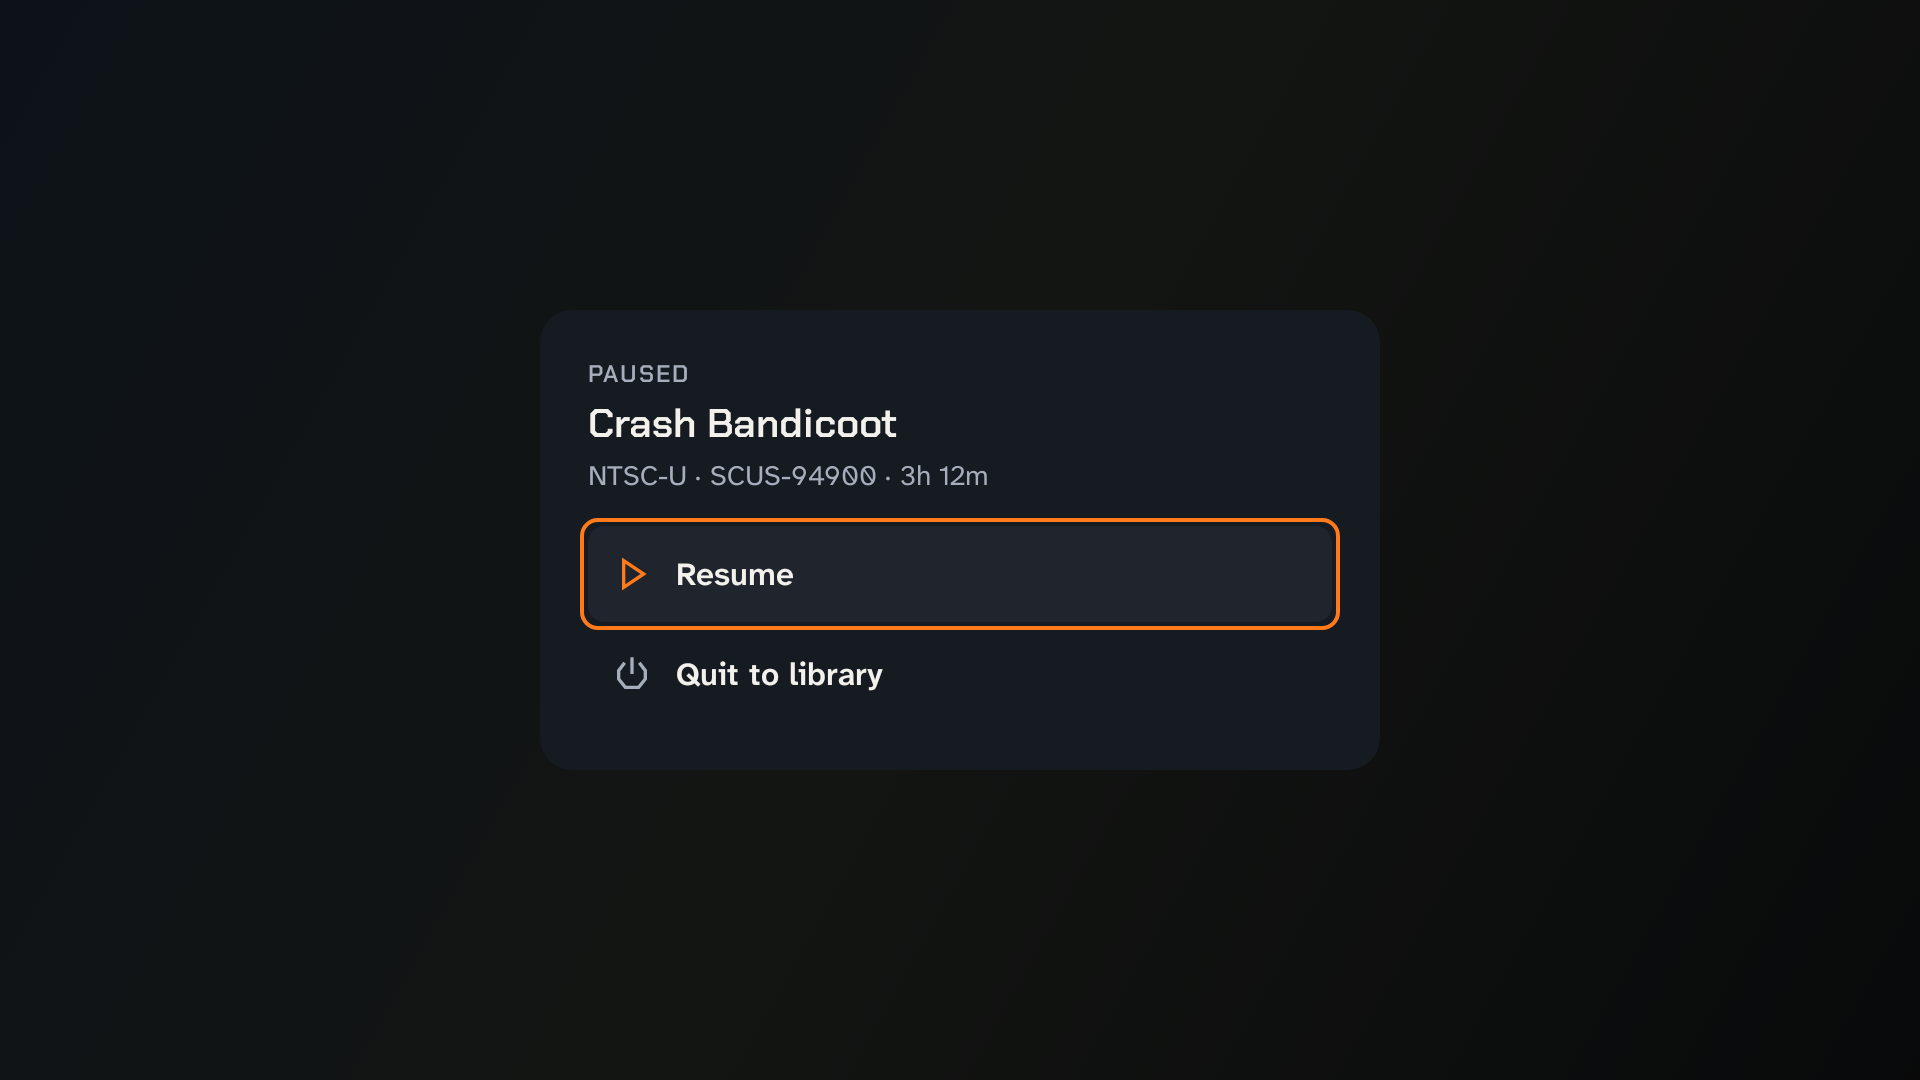
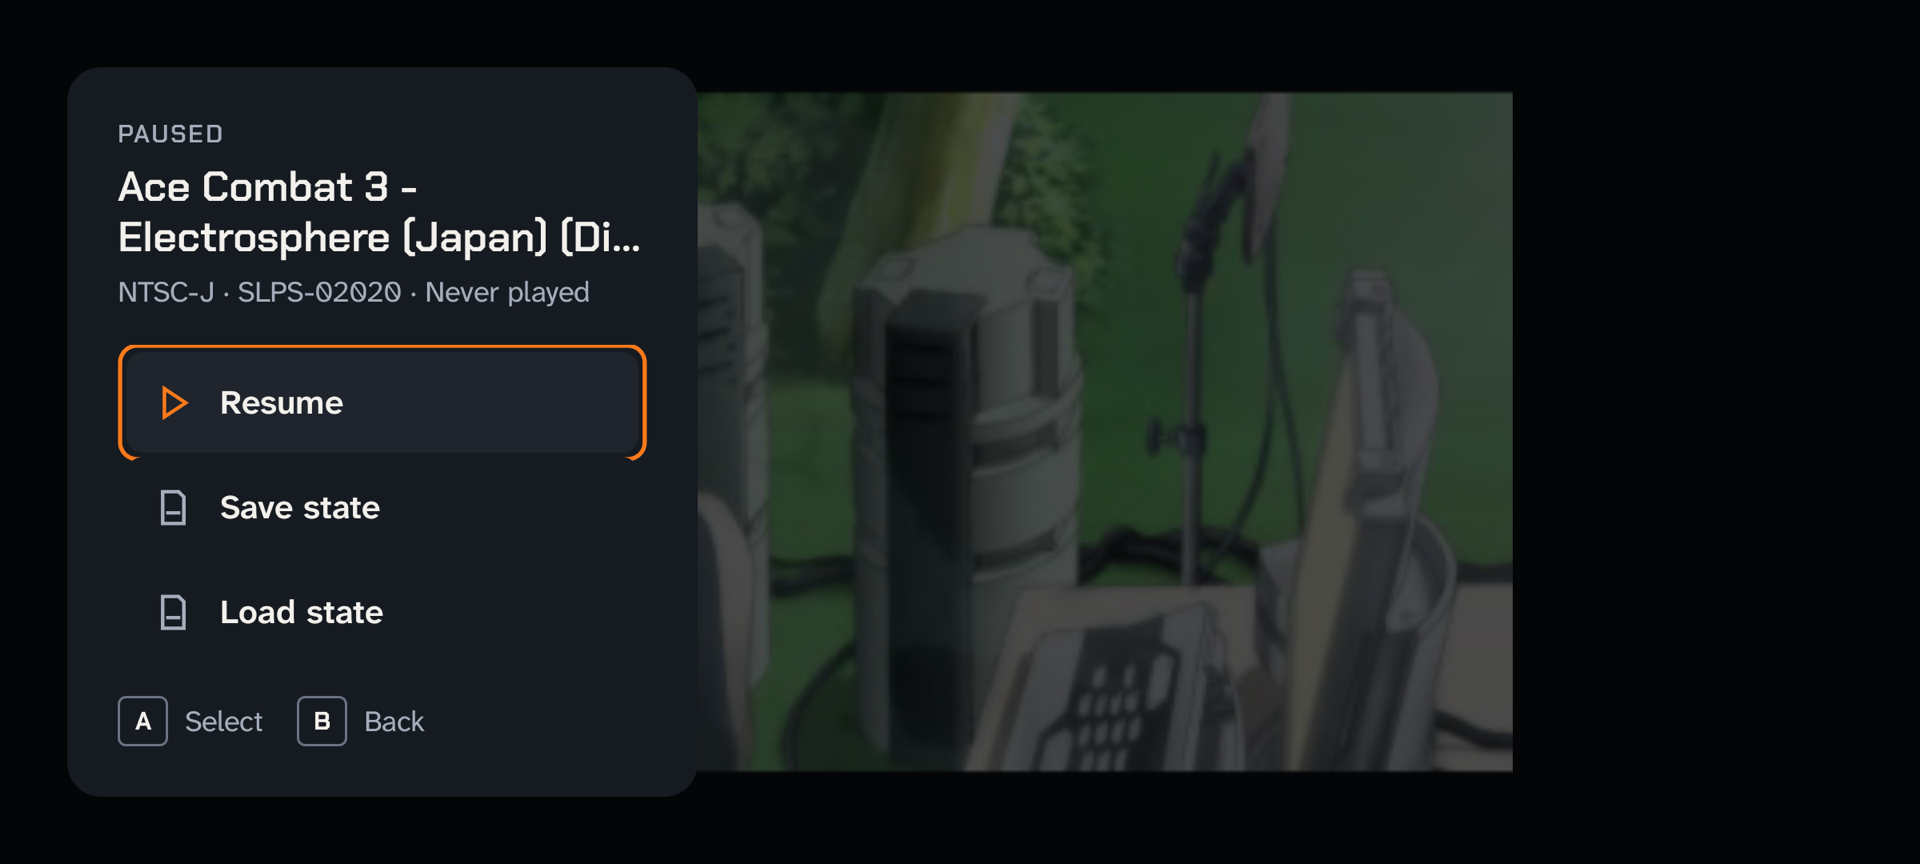
Docs: the in-game menu, hotkeys and on-screen messages
- docs/android.md: "The in-game menu" (in place of "Leaving a game"), the Hotkeys rows and Select's hold under
  Controllers, new known limits, the emulator's results, and step 9 of the Thor checklist
- docs/design-system.md: GameMenu, SaveSlotPanel and ResumePrompt under the game screens; save-state slots out of
  "Not built yet"
- docs/design-system/screenshots: the pause menu and the Load state panel, from the emulator

diff --git a/docs/android.md b/docs/android.md
@@ -273,7 +273,7 @@ ISO and the rest), M3U playlists, and PS-X EXE files. Disc images in the same fo
 a case-insensitive match when the case differs (`FILE "TRACK 01.BIN"` next to `Track 01.bin`), and names holding
 `#`, `%` or `?` work as they are.
 
-In a game, Back opens a prompt to resume or quit to the library (see "Leaving a game"). Home pauses the game, and
+In a game, Back opens its menu (see "The in-game menu"). Home pauses the game, and
 reopening the app resumes it. Pausing also writes any memory card changes to their files
 straight away (a paused game never reaches the card's usual save, 5 emulated seconds after the last write), so a save
 made just before Home survives the app being killed in the background. Going to the background, or losing focus to
@@ -548,32 +548,80 @@ across restarts, whatever order the controllers connect in.
   again.
 - **The menu's triggers can't be remapped.** Back and Mode can't be bound: Back never reaches the core, and the core
   refuses Mode, so a capture never sees either. Select and Start can be bound to anything, but the controller's own
-  Select and Start keys, held together, open the prompt whatever they're mapped to (see "Leaving a game").
+  Select and Start keys, held together, open the menu whatever they're mapped to (see "The in-game menu").
+- **Hotkeys**, after the bindings: **Fast forward**, **Analog mode** (the DualShock's Analog button, which was the
+  "Analog Toggle" row; only for a DualShock) and **Screenshot**, each Select held with a button. A on a row asks "Hold
+  Select and press a button for <hotkey>… Back cancels (5)" and takes the next button but Select and Start (Back and
+  Mode never reach it); its value then reads "Select + X". Clear and Undo work as on a binding, and Reset to defaults
+  clears them (they're unassigned by default). Each controller has its own: `[Hotkeys] ToggleFastForward` and
+  `Screenshot`, and `[Pad1] Analog`, as the core's chord bindings (`Android-0/Button109 & Android-0/Button99`). They
+  work while a game runs and the menu is closed.
+- **Select on a controller with a hotkey** is held back from the game until it's known not to start a chord: it goes
+  to the game when it's let go (held down 100 ms, as a tap), together with the next button pressed (in one batch, so
+  the core's chord fires and the game sees neither), or once held for 500 ms, for a game that wants Select held (a map,
+  say). A chord pressed after that still fires, but the game has seen Select by then. Select and Start held for the
+  menu never reach the game. A controller with no hotkey sends Select as it comes.
 
-### Leaving a game
+### The in-game menu
 
-In a game, three things pause it and open a prompt: "Paused" over the game's title, its region, serial and play
-time, then **Resume** (focused) and **Quit to library**:
+In a game, three things pause it and open its menu:
 
 - **Back**: the Back gesture, the system's Back key, or a controller's own Back key (the Thor's pad has one);
 - **Mode**: a controller's Home or Guide button (`KEYCODE_BUTTON_MODE`), on its key-down;
 - **Select and Start held together for a second**, on one controller.
 
-The game never sees the press that opens it. While the prompt shows, the controllers move its focus, as on any
-other screen; A presses the focused button, and B, Back or Mode resume. Everything held is let go as it opens and
-again on **Resume**, so nothing stays pressed in the game. The pause writes the memory cards, as Home's does, and
-**Quit to library** stops the game (`Game stopped.`). With the prompt open, Home and back keeps the game paused, with
-the prompt showing. Back while a game is still booting opens the prompt too: the game pauses once it has booted, and
-**Resume** starts it.
+The game never sees the press that opens it. The menu is a panel at the left, over the dimmed game: "Paused" over the
+game's title, its region, serial and play time, then its rows, **Resume** focused:
 
-A stick the game had (or a capture, on the Controllers page) stays the core's after the prompt opens or the capture
+- **Save state** and **Load state** open the slot panel beside the menu (below it on a phone held upright, with the
+  menu keeping the top 40% of the screen). It lists Slot 1 to Slot 10 (and, in Load, **Resume**, the resume state,
+  first), each with the screenshot saved in it, "Saved" or "Empty" and when, in the form "Today · 14:05". The slot
+  last saved to or loaded from in this game is focused, or else Slot 1 (Save) or the newest save (Load). In Load,
+  empty slots can't be picked; with no saves at all, "No saves yet for this game." Saving to an empty slot saves at
+  once; a filled one asks "Replace the save in slot 3?" in the panel, Cancel focused. A save or load that works goes
+  back to the game, saying "Saved to slot 3", "Loaded slot 3" or "Loaded your resume state"; one that fails stays in
+  the panel with the reason ("Couldn't save to slot 3: …"). States are the core's own, at
+  `savestates/<serial>_<n>.sav`, mirrored to the data folder like the rest. The last slot used is kept per game on
+  this device (`SharedPreferences("game")`).
+- **Fast forward**, with "On" or "Off": switches it and goes back to the game, at `[Main] FastForwardSpeed`. While
+  it's on, its marker shows at the top right. It's off again whenever a game starts.
+- **Analog mode**, with "On" or "Off", only for the DualShock (`AnalogController`): presses the controller's Analog
+  button, as the real one does, and says "Analog mode on" or "Analog mode off" (or that the game keeps the controller
+  in its mode).
+- **Screenshot**: saves the game's picture, without the menu, to the data folder's `screenshots`, and says
+  "Screenshot saved".
+- **Reset console** asks "Reset the console? Progress since your last save is lost." in the menu, Cancel focused,
+  then restarts the game: "Console reset".
+- **Exit game** saves the game's resume state (`savestates/<serial>_resume.sav`, when `[Main] SaveStateOnExit` is on,
+  as it is by default, and the game has a serial), then stops it. If that save fails, the game still stops, and the
+  library says "Couldn't save your place: <reason>".
+
+Until a game has booted, only Resume and Exit game work, and the details line says "Starting…". The foot of each panel
+names the buttons: **A** Select (or Save, or Load), **B** Back. While the menu shows, the controllers move its focus,
+as on any other screen. B and Back step out one layer at a time, each acting on a press that began on it: a question,
+then the slot panel (back to its row), then the menu, which resumes. Mode resumes from anywhere. Everything held is let
+go as it opens and again on resuming, so nothing stays pressed in the game. The pause writes the memory cards, as
+Home's does. With the menu open, Home and back keeps the game paused, with the menu showing.
+
+**Resume where you left off?** When a game with a resume state is started from the library, it asks first, over the
+library, with the state's screenshot and time: **Resume** (focused) boots it from there; **Start over** boots it afresh
+and keeps the resume state until the next Exit game replaces it; B cancels. A resume state that can't be loaded (damaged,
+or from an incompatible build through a shared data folder) takes the app back to the library with the reason, and
+the file is kept, so the next start asks again. A fatal error, the SD card removed, or the app killed saves none.
+
+**On-screen messages** over the game are drawn by the app, at the top left, in the design system's `osd` style (see
+`OsdLayer` in `docs/design-system.md`): its own for 3 s, and the core's (a memory card saved, a controller connected,
+an error) for the core's time, without their emoji. The core's own messages and status icons don't show on Android.
+
+A stick the game had (or a capture, on the Controllers page) stays the core's after the menu opens or the capture
 ends, until it's pushed less than 0.45 from rest, so it doesn't move the menus' focus while it's still held. That's
 just under the 0.5 at which Android turns a stick into D-pad presses; a controller that declares a larger dead zone
 for its stick or hat raises it to that, but never to 0.5. As the stick comes under it, the core is told it's at rest,
 so a game resumed with the stick let go doesn't see it pushed, and the menus take it from then on.
 
-Select and Start keep working in games. Pressed alone, each goes to the game as it comes. When one is held and the
-other goes down, that second press is held back: if both are still held 1 s later, the prompt opens and the held-back
+Select and Start keep working in games. Pressed alone, each goes to the game as it comes (but Select on a controller
+with a hotkey, see "Controllers"). When one is held and the
+other goes down, that second press is held back: if both are still held 1 s later, the menu opens and the held-back
 press is never sent. If either is let go first, the held-back press is sent then, late. A Start tapped while Select is
 held therefore reaches the game when it's let go, and lasts 100 ms (6 frames at 60 Hz), however short the tap, so the
 game's once-a-frame read of the pad sees it.
@@ -594,6 +642,12 @@ game's once-a-frame read of the pad sees it.
 - **The Vulkan fallback lasts until the app restarts.** Once Vulkan has failed, every game in that process uses
   OpenGL ES, even after `Renderer` is changed back to `Vulkan`. Each new process tries Vulkan once more, as
   `settings.ini` keeps the user's choice.
+- **A controller connected during a game** has its Select held back for its hotkeys from the next game on: they're
+  read as a game starts.
+- **The in-game menu has no Undo load, global save slots, or way to delete or rename a save.** The core keeps an undo
+  state, but the menu doesn't offer it yet.
+- **The core's screenshot message lasts 2 s,** not the 5 s it means: its duration is passed to the text's formatting
+  instead (`gpu.cpp`, desktop code, left as it is).
 - **The settings pages are reachable only from the library**, not from a game or its prompt. Leave the game to change
   them.
 - **Leaving during a boot freezes the UI until the boot is done.** Destroying the surface waits for the CPU thread,
@@ -741,13 +795,36 @@ with D-pad key events, the picker with taps, and the games with `uinput` gamepad
 | Portrait | Not possible full screen. With `wm set-ignore-orientation-request true` and the rotation at 0, the app was letterboxed in a landscape-shaped window (411x309 dp) in the middle of the portrait screen. Plan 3's layout check used freeform portrait windows instead (411x862 and 360x800 dp). The Thor checklist has it. |
 | Crashes | None: `adb logcat -b crash -d` was empty at the end, and logcat had no `FATAL EXCEPTION` or `Fatal signal`. Every new process came from a force-stop or an install. |
 
+### The in-game menu (2026-10-31)
+
+Checked on `goose-arm64` with the debug APK, by key events (`adb shell input keyevent`, and `input gamepad` for the
+hotkeys), with Ace Combat 3 (SLPS-02020) and padtest. The game screen is landscape, so the panels sat side by side.
+
+| Check | Result |
+| --- | --- |
+| Save to an empty slot | Pass. Slot 1 saved (`savestates/SLPS-02020_1.sav`, 1.4 MB), the game resumed, "Saved to slot 1" showed top left; the core's own save message didn't. |
+| Replace a save | Pass. "Replace the save in slot 1?" in the panel, Cancel focused; Replace saved again. |
+| Load | Pass. The panel showed the slot's screenshot and "Today · 16:48", the empty slots faint and skipped; loading resumed at the saved point with "Loaded slot 1". The slot last used was focused next time. |
+| Fast forward | Pass. The row read "On", the marker showed top right, and the game ran faster; again, off. |
+| Screenshot, reset | Pass. A PNG in `screenshots`, "Screenshot saved"; Reset asked first (Cancel focused), then "Console reset" (seen in a `screenrecord`: it shows about 2.5 s). |
+| Exit game and resume | Pass. Exit game wrote `SLPS-02020_resume.sav`; the next start asked "Resume where you left off?" with its picture and time; Resume booted `from 'SLPS-02020_resume.sav'`, Start over booted afresh, B cancelled. |
+| A resume that fails | Pass. With `savestates` read-only, Exit game still stopped the game and the library said "Couldn't save your place: …". A resume state cut to 100 bytes: Resume returned to the library with "Failed to start …: Failed to load save state file …", and the next start asked again. |
+| Mirror | Pass. The data folder's save states matched the working copy's (md5), with no `*.sav.XXXXXX`, and the screenshots were copied. |
+| Hotkey capture | Pass. Fast forward's row took Select + X (Select skipped) and showed "Select + X"; `settings.ini` has `ToggleFastForward = Android-0/Button109 & Android-0/Button99`. |
+| Hotkey in a game | Pass. Select + X in padtest turned fast forward on, and again off. Whether padtest saw Select or X couldn't be seen (its picture stayed black under the emulator's software Vulkan); `SelectChordTest` and `PadKeysTest` cover it, and the Thor checklist has it. |
+
+Found and fixed during the pass: the core's own status icons (pause, fast forward) drew beside the app's marker, so
+they're off on Android; the core's messages start with an emoji, which kept "Screenshot saved" from matching, so emoji
+are left out; slot pictures drew at their own size, not filling their box. The emulator's GPU emulation wedged twice
+during the instrumented runs (the app's render thread stuck in `eglSwapBuffers`), and the emulator was restarted.
+
 ## Results on the AYN Thor
 
 Checked on 2026-10-26 with the debug APK built from `9dc56372e`, on an AYN Thor: Android 13 (API 33), Snapdragon
 8 Gen 2 (QCS8550), Adreno 740, 4 KB pages. The built-in pad connects as `Odin Controller` (`Android-0`) and reports
 X/Y (left stick), Z/RZ (right stick), HAT_X/HAT_Y (D-pad) and BRAKE/GAS (L2/R2), all of which the app forwards. Its
 key layout has real BACK, HOME and BUTTON_MODE keys, so on the Thor the pad's Back key left a game (in that build;
-it now opens the prompt, see "Leaving a game"). No physical button on the Thor sends `BTN_MODE`, though: its only
+it now opens the prompt, see "The in-game menu"). No physical button on the Thor sends `BTN_MODE`, though: its only
 buttons besides the gamepad controls are Back and Home (found 2026-10-30).
 
 | Check | Result |
@@ -995,3 +1072,19 @@ adb logcat -v time > thor.log
    as keys (the built-in one sends a hat). The Vulkan crash from 2026-10-29 (an OpenGL ES loading-screen texture
    left cached by Android's `FullscreenUI::Shutdown()` stub, then used as a `VulkanTexture` on the next Vulkan
    device) is fixed in `652a4f808`: 0 crashes in 3 on the Thor afterwards, where it was 3 in 3 before.
+
+9. **The in-game menu and hotkeys.** With the build that has the in-game menu, after step 7's setup. The Thor's pad
+   has no Mode button and its D-pad is a hat: open the menu with Back or Select + Start, and move with the D-pad.
+   - [ ] Every row works with the pad alone: Save state (an empty slot, then the same slot again: "Replace the save
+     in slot 1?", Replace and Cancel), Load state, Fast forward (the marker), Analog mode, Screenshot, Reset console
+     (Reset and Cancel), Exit game.
+   - [ ] B steps out one layer at a time: the question, then the slot panel (back to its row), then the menu.
+   - [ ] Nothing pressed in the menu reaches the game, and a direction or button held as it opens doesn't stick after
+     Resume.
+   - [ ] Exit game, then start the game again: "Resume where you left off?", with its picture and time; Resume, Start
+     over and B each work.
+   - [ ] Set each hotkey on the Controllers page (Select + a face button). In padtest: Select + that button fires it,
+     and padtest lights neither Select nor the button; a Select tap lights Select briefly; Select held lights it from
+     about half a second; Select + Start held opens the menu without Select lighting.
+   - [ ] In a game with a map or menu on Select, holding Select still shows it.
+   - [ ] `adb logcat -b crash -d` is empty.

diff --git a/docs/design-system.md b/docs/design-system.md
@@ -36,7 +36,8 @@ source for it. When a value changes, change `tokens.json` and the implementation
 
 The Android app's screens, in [`docs/design-system/screenshots/`](design-system/screenshots/): rendered from the
 Compose code, off a device, at a handheld's 960 x 540 dp in landscape (the AYN Thor's) and a phone's 411 x 891 dp in
-portrait. The orange outline is the focus, where a controller is.
+portrait. The pause menu and its slot panel are from the emulator, a phone in landscape (914 x 411 dp), over Ace
+Combat 3. The orange outline is the focus, where a controller is.
 
 | | |
 | --- | --- |
@@ -44,6 +45,7 @@ portrait. The orange outline is the focus, where a controller is.
 | ![The settings hub](design-system/screenshots/settings.png) | ![The Graphics page: cyclers and a toggle](design-system/screenshots/graphics.png) |
 | ![The BIOS page](design-system/screenshots/bios.png) | ![The Controllers page](design-system/screenshots/controllers.png) |
 | ![Setup's welcome](design-system/screenshots/setup.png) | ![The pause menu over a game](design-system/screenshots/pause.png) |
+| ![The Load state slot panel beside the pause menu](design-system/screenshots/save-slots.png) | |
 
 ![The library on a phone, in portrait](design-system/screenshots/library-phone.png)
 
@@ -250,8 +252,20 @@ A small capitalised label over what it names: "Paused" over a game's title, "Ste
   the art loads; then the title (2 lines) and region · play time. Tiles are at least 152 dp wide, 16 dp apart across
   and 24 down.
 - `GameListRow`: a 48 dp cover thumbnail, the title, then region · serial · play time.
-- `GamePrompt`: the pause menu. A `scrim` over the game, a `surface` panel at `radius-lg`, "Paused" over the game's
-  title and details, then menu rows (an icon and a label; focused, the icon turns `beak-ink`).
+- `GameMenu`: the pause menu. A `scrim` over the game, a `surface` panel at `radius-lg`, 300 dp wide, 32 dp from the
+  edges: "Paused" over the game's title and details, then menu rows (an icon, a label and any value at the end;
+  focused, the icon turns `beak-ink`; disabled, all `ink-faint`), a `line` divider before Reset console, and `KeyHints`
+  at the foot. The row whose panel is open is current: `beak-soft`, its icon `beak-ink`. A question (Reset console)
+  takes the rows' place in the panel: the question in `title-2`, then a `Danger` button and Cancel (`Ghost`, focused).
+  B steps out one layer at a time, back to the row it came from.
+- `SaveSlotPanel`: the slot list, a second `surface` panel beside the menu, filling the rest of the screen; on a
+  narrow portrait screen, below it, the menu keeping the top 40%. Each slot row shows its screenshot at 4:3 (112 x 84
+  dp, 64 x 48 dp in a row under 320 dp wide) on `sunken`, or the `memoryCard` icon in `ink-faint`; the slot's name in
+  `label`; Saved or Empty; and the time in `mono`. Rows that can't be picked are disabled. Replacing a save asks in the
+  panel, as the menu does. The focus can't leave the panel.
+- `ResumePrompt`: "Resume where you left off?" over the library, a centred `surface` panel at `radius-lg`: the game's
+  title, the resume state's screenshot (224 x 168 dp) and time, then Resume (`Primary`, focused) and Start over. The
+  `scrim` takes every tap, and the focus can't leave the panel.
 - `OsdLayer`: the messages over the running game, the app's and the core's, at the top left, oldest first, at most
   four. Each is `osd` type in `osd-ink` on the `osd` ground at `radius-sm`, with the core's icon (a memory card's,
   say) when it has one, showing its first frame only. The app's messages last 3 s, and the core's keep their own time.
@@ -342,6 +356,6 @@ See [docs/android.md](android.md) for running them.
 
 The design system defines these, and the published page previews them, but no app has them yet: a light theme on
 Android; badges for region and memory card sync;
-progress bars; save-state slots; on-screen touch controls; the
+progress bars; on-screen touch controls; the
 desktop nav rail; and the whole desktop app and Big Picture. Build them from the published page's previews and the
 tokens.
